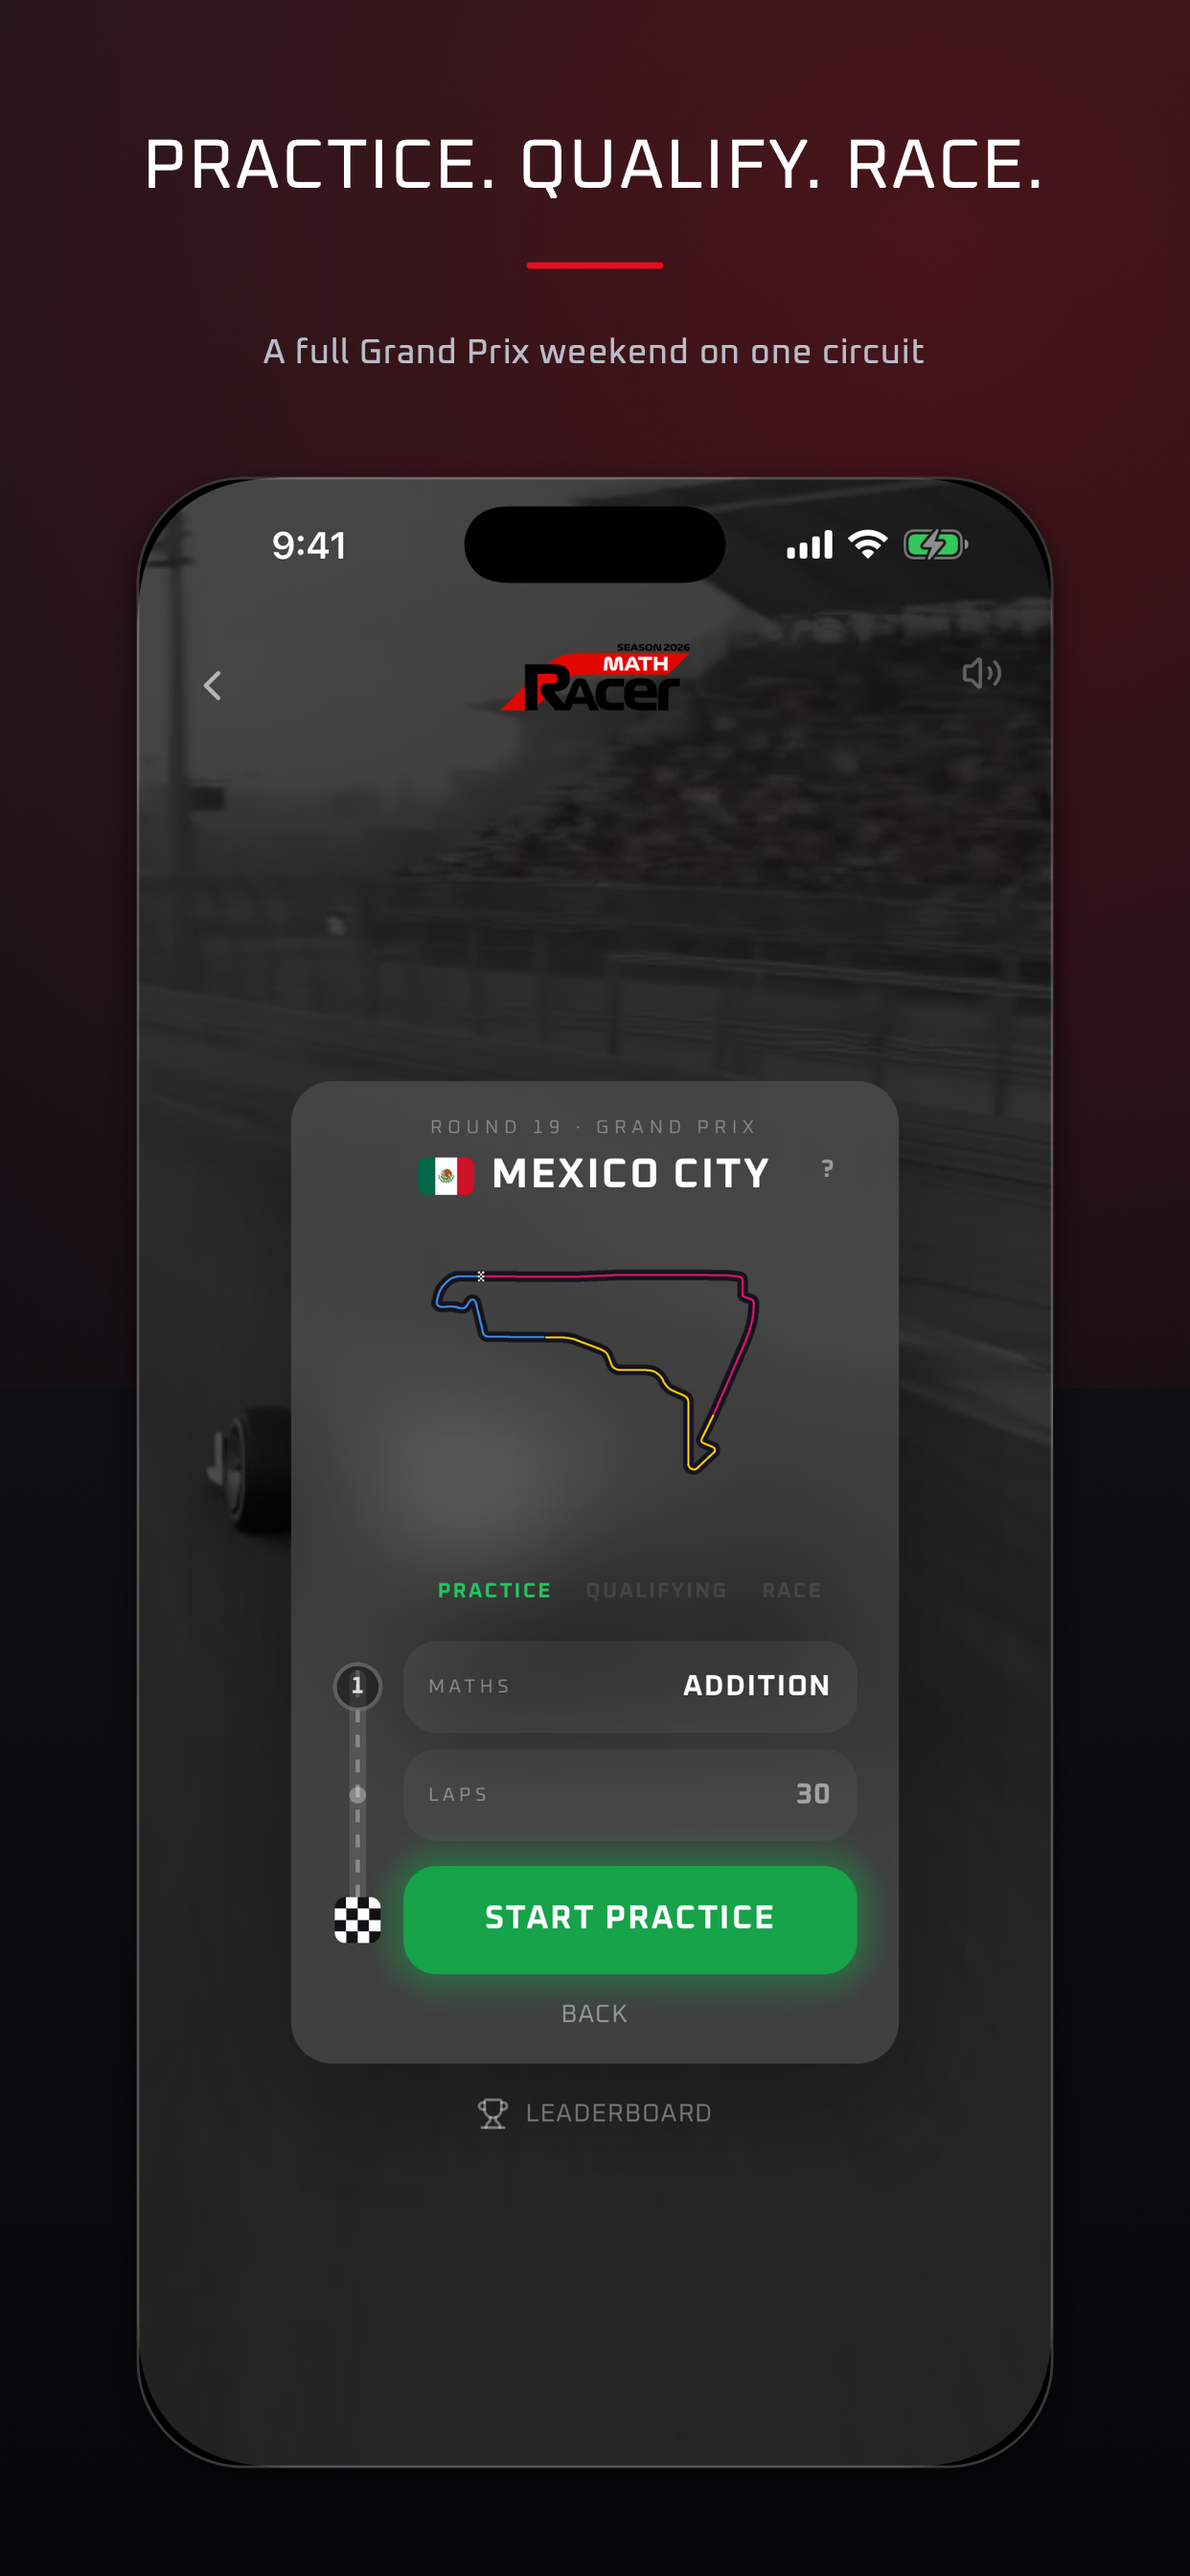
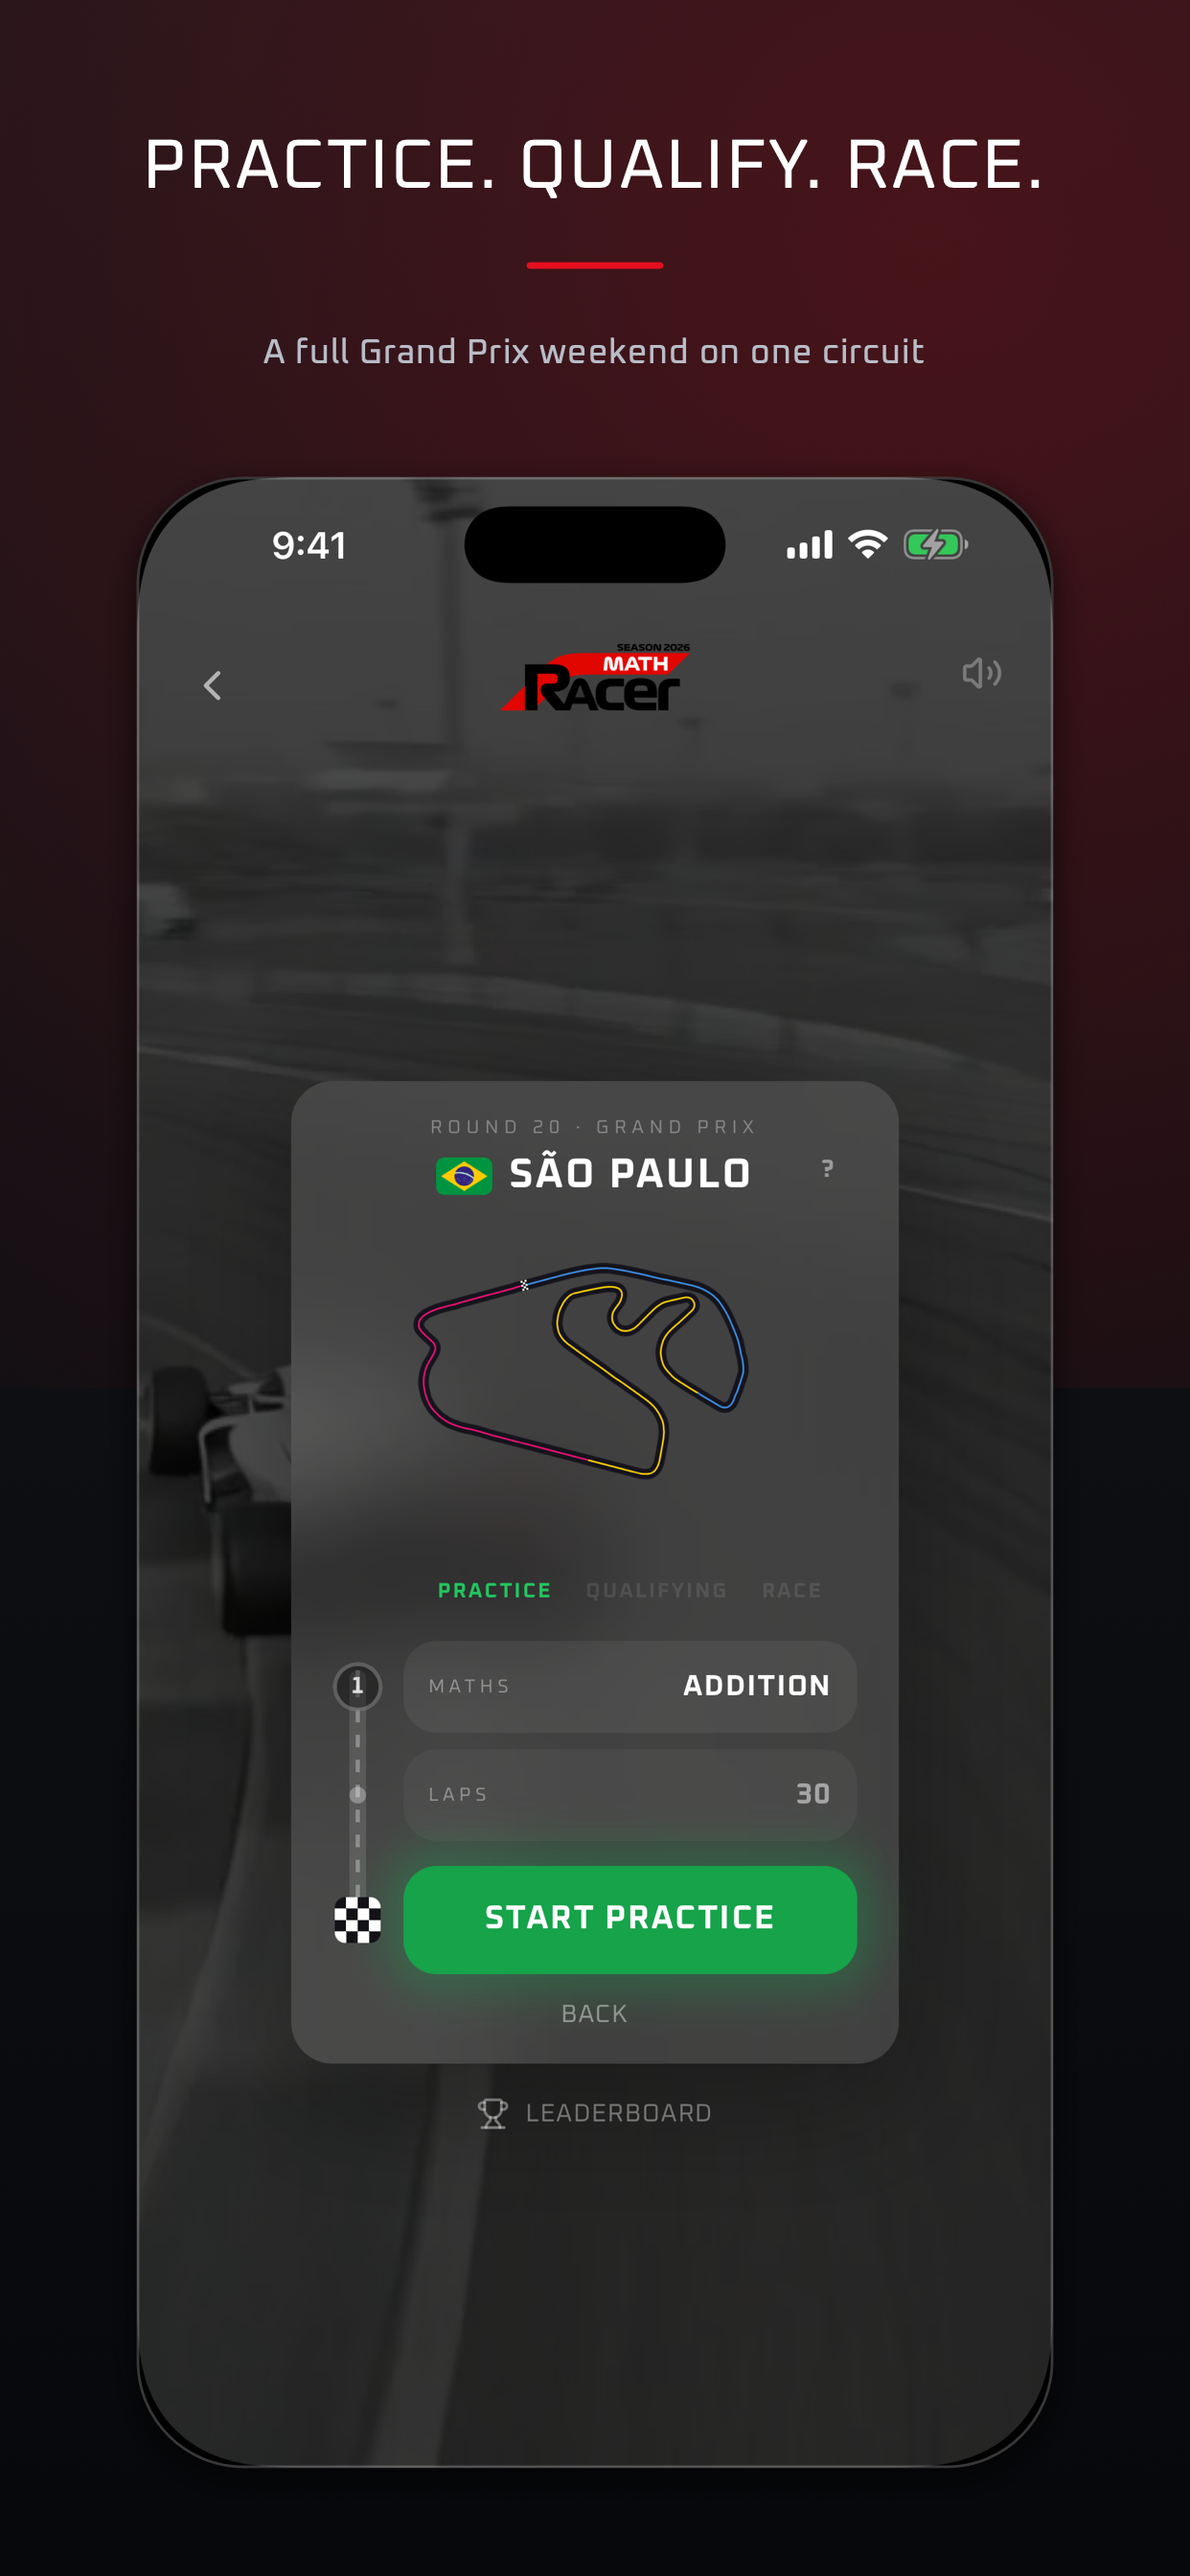
Retake the App Store cards for São Paulo
The cards that show the current Grand Prix still showed Round 19 /
Mexico City. Recaptured on the iOS 26.5 simulators with 1.3.20:
- iPhone 04_grand_prix, 05_paddock (6.9" and the 6.3" copies); the
  Paddock card now also shows the MAP card
- iPad 04_grand_prix, 05_paddock
- iPad 01_race (header chip), from a capture-only bundle (practice bot
  time x12) built into the scratchpad and dropped into a copy of the
  simulator app, so dist/ and ios/ never held it: yellow, green, yellow,
  purple, green, purple, purple at Lap 8/30 with AERO lit

README: the last-captured round, the scratch-bundle route for the
capture build, and this time's answer timings.

diff --git a/app_store/README.md b/app_store/README.md
@@ -27,7 +27,7 @@ product page.
 | `08_superlicence` | Superlicence granted. | Finish Driving School and it joins your trophy cabinet |
 
 `04`, `05` and the iPad `01` (its header chip) show the current Grand Prix. They
-were last captured on Round 19 / Mexico City. `02` shows Race Day's lap count
+were last captured on Round 20 / São Paulo. `02` shows Race Day's lap count
 (`/56`, from Round 16 / Malaysia) but no circuit name. `06` shows the Reaction Test target
 (`REACTION_LICENCE_MS`, 0.40s), so retake it if that changes.
 
@@ -95,10 +95,19 @@ Captions use Oxanium, the same font as the app.
   half of it, green under it, yellow over), about 2–3 s at Karting, and each answer
   through the simulator panel takes longer than that. So, temporarily, multiply
   `question.botTime` in Game.tsx's practice colouring by 12, build, install, then
-  revert with `git checkout --`, rebuild and re-sync. Answering at a steady pace then
+  revert with `git checkout --`, rebuild and re-sync. To keep the change out of `dist/`
+  and `ios/` altogether (safe while Xcode has the workspace open for an archive), build
+  it with `NODE_ENV=production npx vite build --outDir <scratch>`, revert at once, copy
+  that `index.html` and `assets/` into a copy of the simulator `App.app/public`,
+  `codesign --force --sign - --deep` the copy and install it (done on 2026-11-06).
+  Answering at a steady pace then
   gives a mix of green and purple; wait about 45 s on one question for a yellow. On
   2026-10-27 answering within about 10 s gave purple, pausing about 7 s before ✓ gave
-  green, and a 26 s first answer gave yellow. The 2026-10-27 iPad card stops at Lap 8/30
-  (yellow, purple, green, purple, purple, green, purple) with AERO lit; the iPhone `01` card, retaken the same way, at Lap 7/30 with its next answer typed.
+  green, and a 26 s first answer gave yellow. On 2026-11-06 a single-digit answer
+  (about 11 s) gave purple, two digits (about 13-23 s) gave green or purple, and over
+  about 30 s gave yellow; the simulator tool's `text` action typed nothing into the
+  keypad, so tap each digit. The 2026-11-06 iPad card stops at Lap 8/30
+  (yellow, green, yellow, purple, green, purple, purple) with AERO lit, taken from a
+  short burst because the AERO button pulses; the iPhone `01` card (2026-10-27) at Lap 7/30 with its next answer typed.
 - **App opens in a window** on the iPad (window controls top-left, wallpaper
   around it): tap the controls, then the green button, and it stays full screen.
